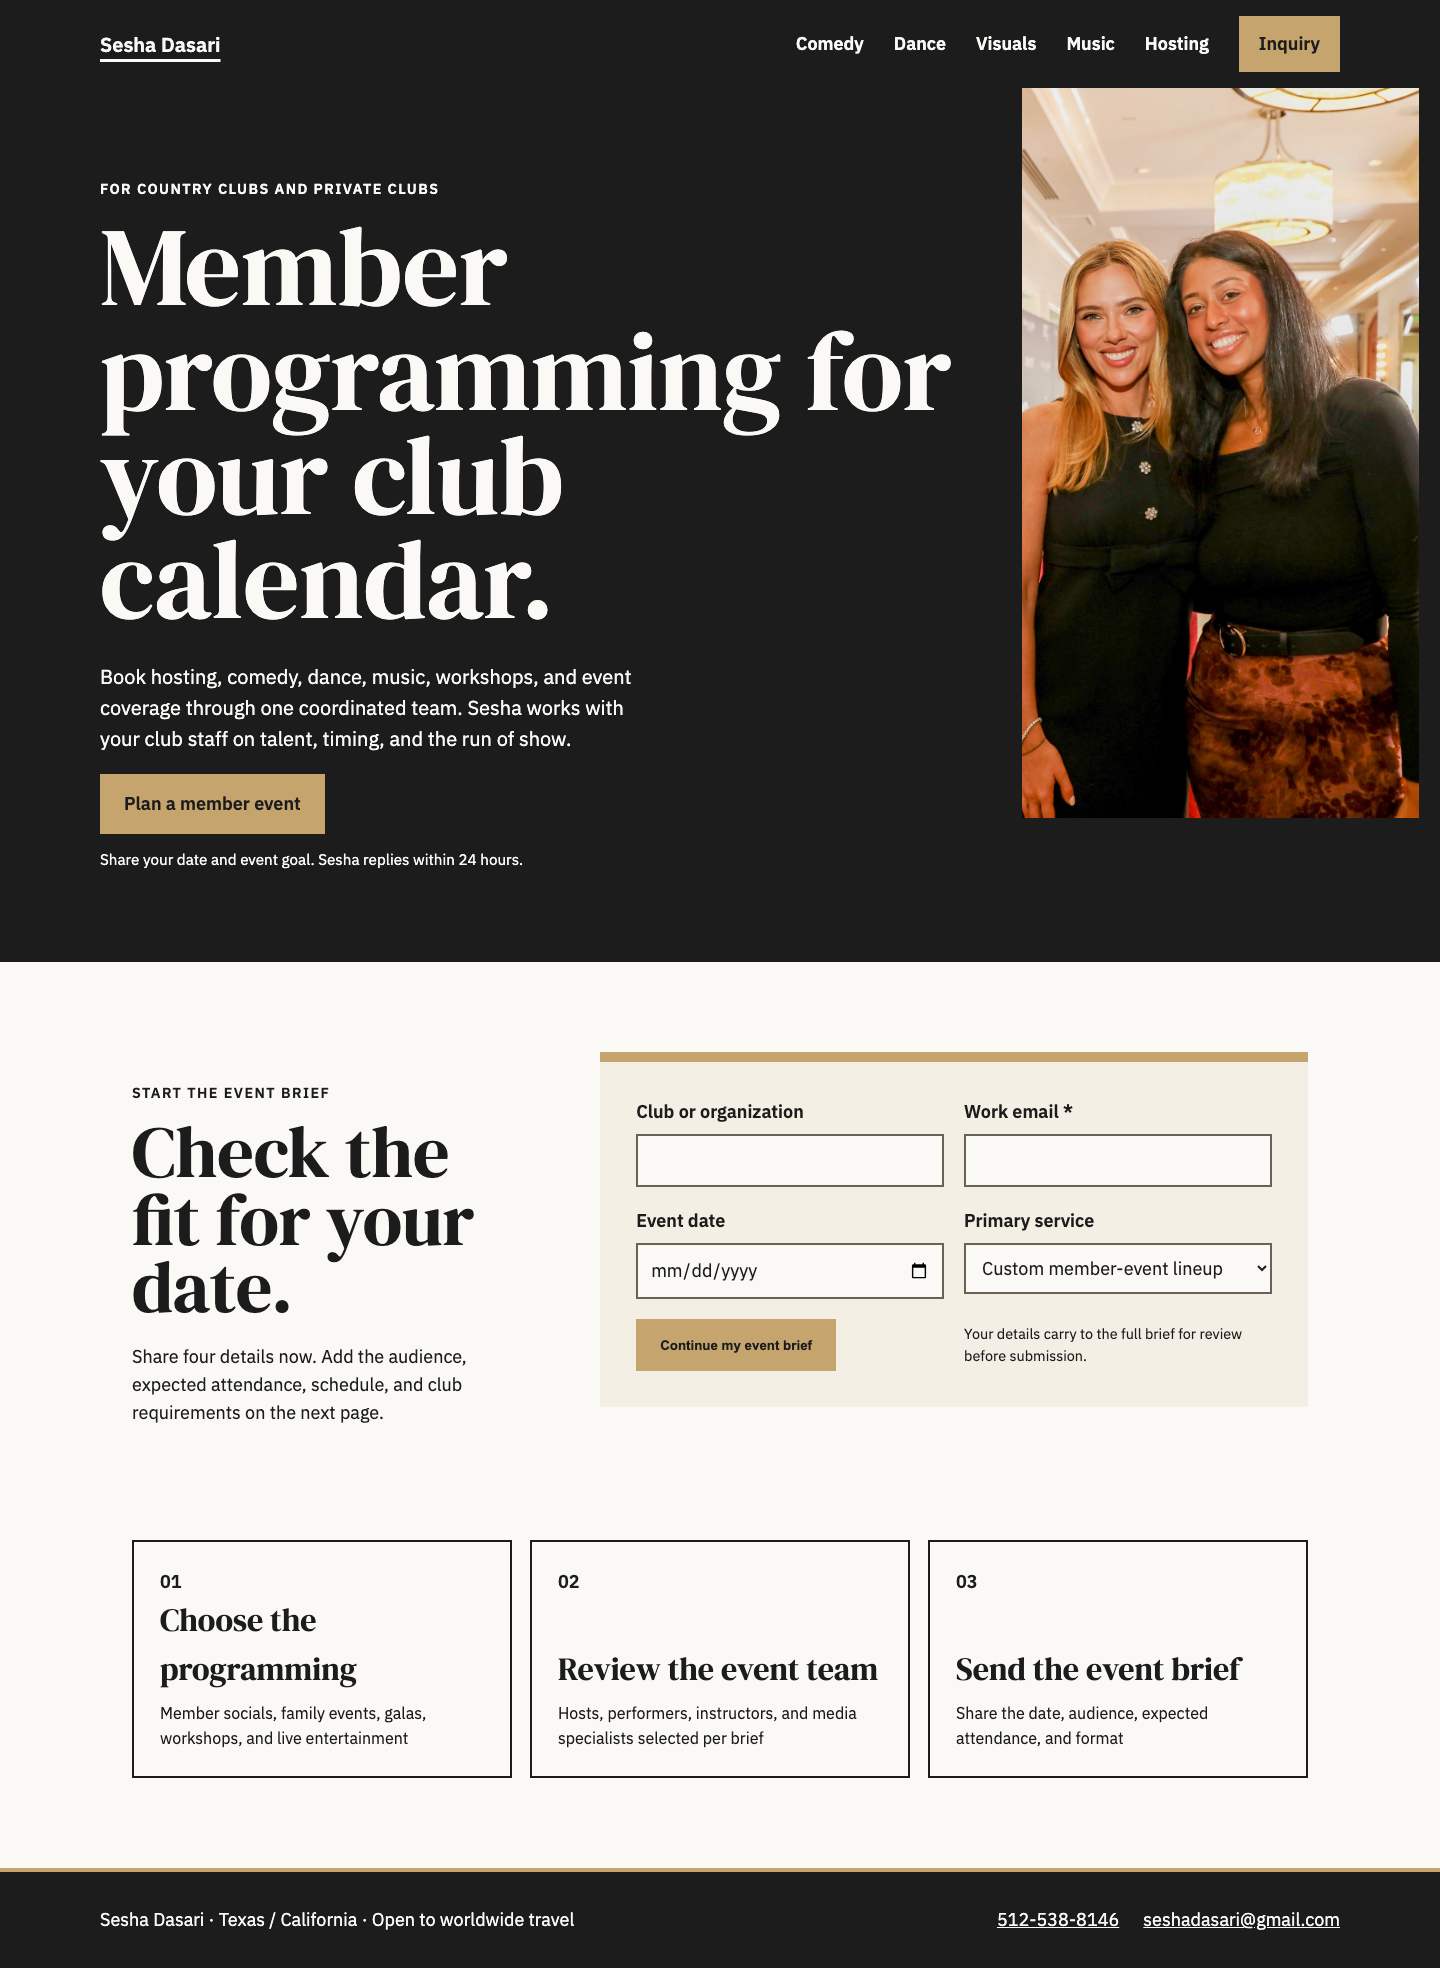
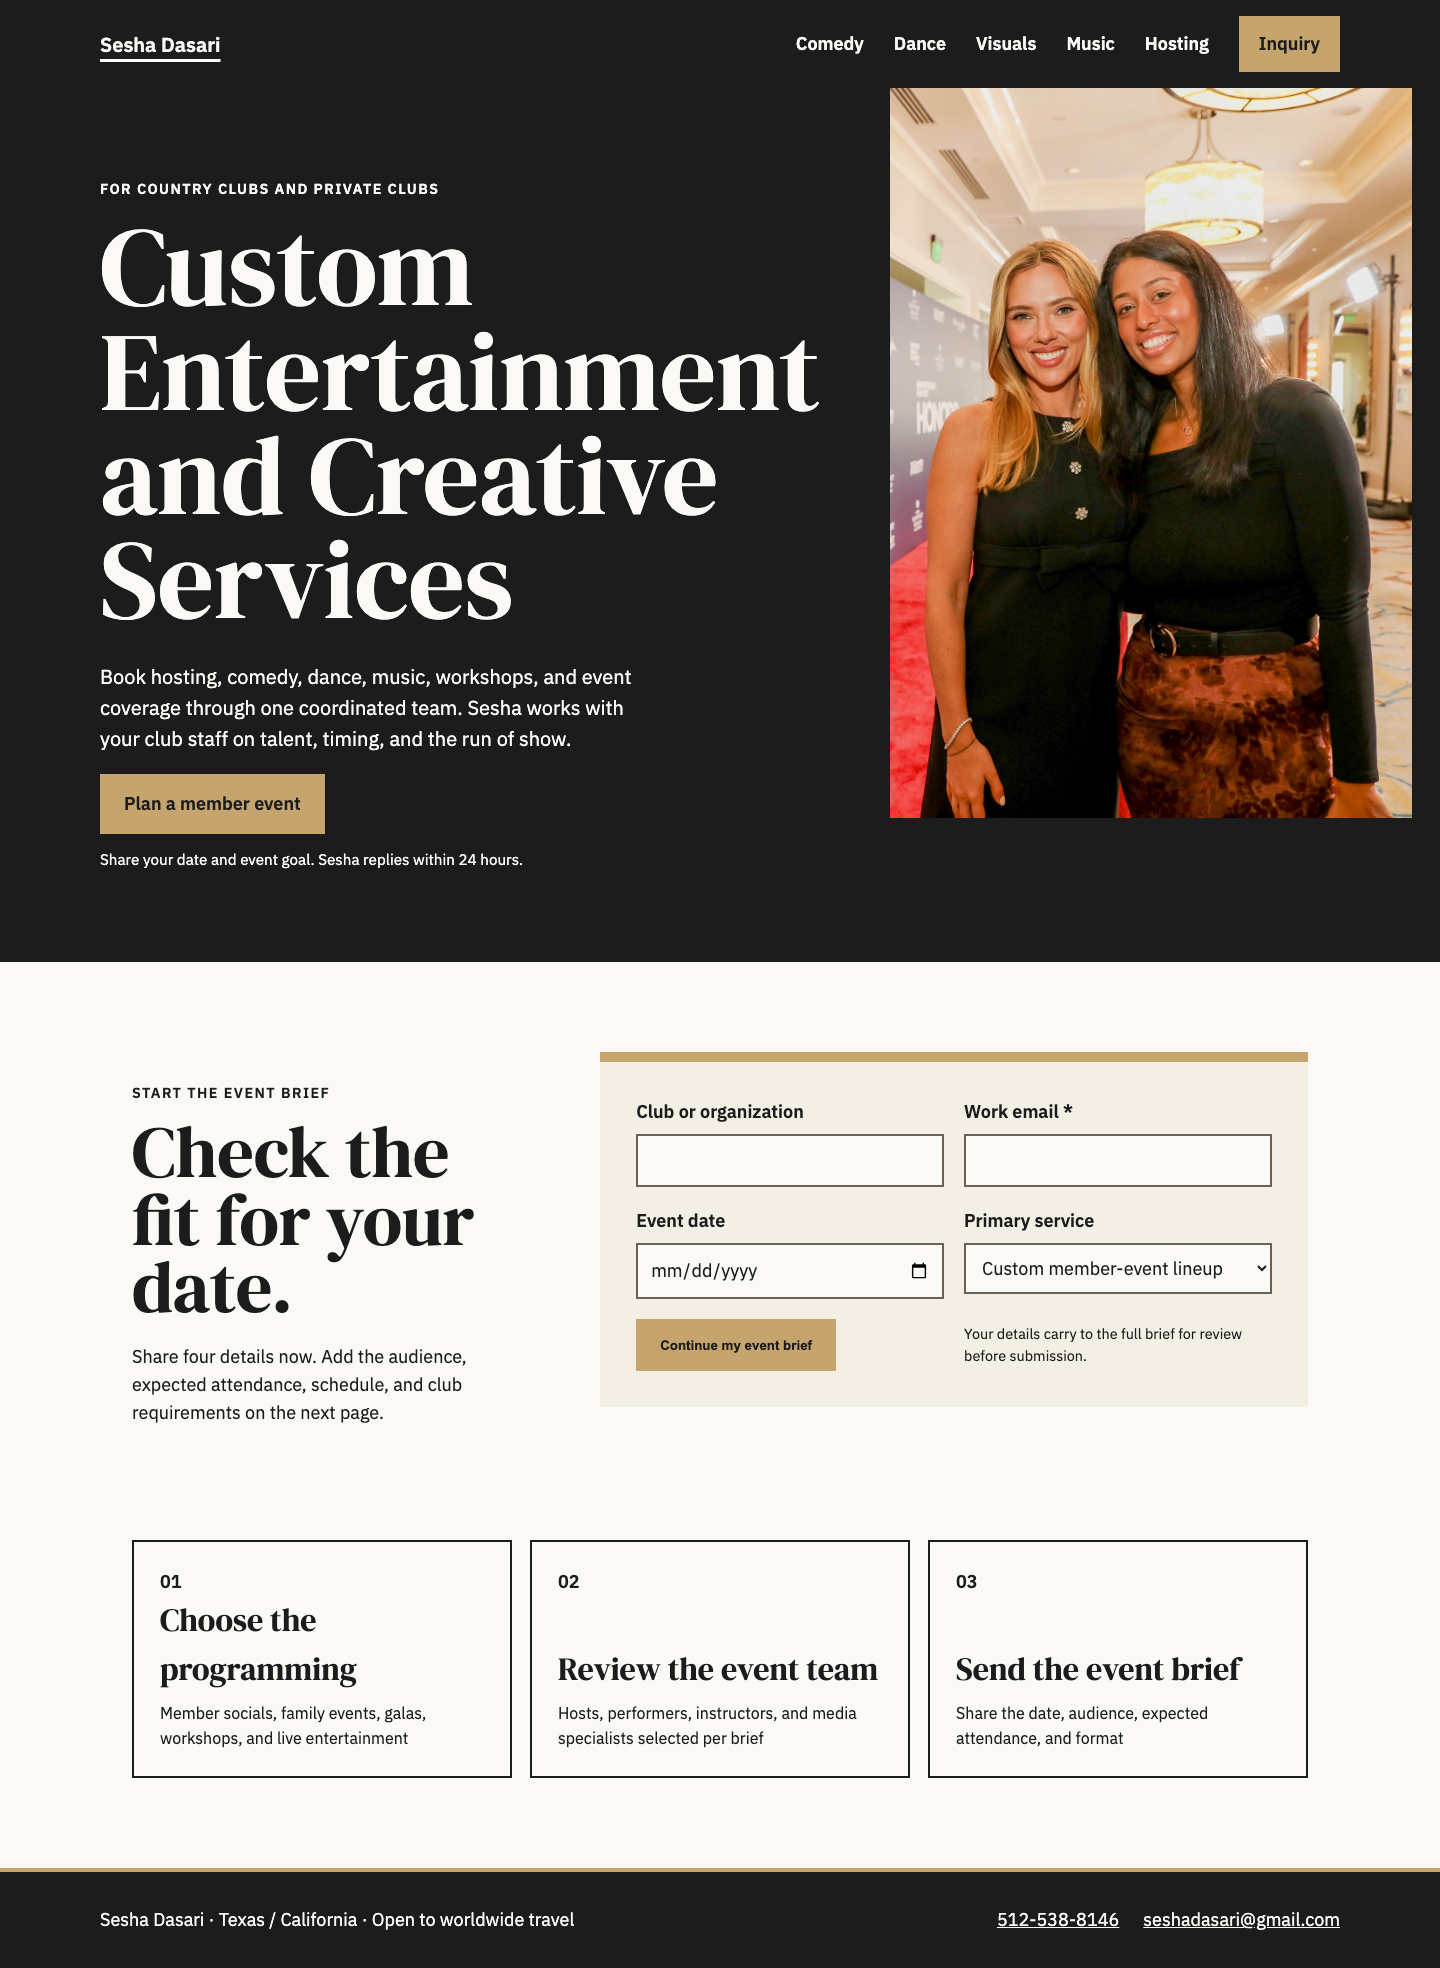
feat: use custom entertainment headline
Replace the homepage hero headline with the requested Custom Entertainment and Creative Services positioning while preserving the country-club audience callout, coordinated-team subhead, and starter-form CTA.

Changed region(s): [[0.0625, 0.031, 1.0, 0.4339]]

diff --git a/index.html b/index.html
@@ -8,7 +8,7 @@
   <a class="skip-link" href="#main">Skip to content</a>
   <header class="site-top"><a class="site-brand" href="index.html" aria-current="page">Sesha Dasari</a><nav aria-label="Main navigation"><a href="service-comedy.html">Comedy</a><a href="service-dance.html">Dance</a><a href="service-media.html">Visuals</a><a href="service-music.html">Music</a><a href="service-hosting.html">Hosting</a><a class="nav-action" href="c-contact.html#event-brief">Inquiry</a></nav></header>
   <main id="main">
-    <section class="hero-c"><div class="hero-c-copy"><p class="eyebrow">For country clubs and private clubs</p><h1><span>Member</span><span>programming for</span><span>your club</span><span>calendar.</span></h1><p class="lead">Book hosting, comedy, dance, music, workshops, and event coverage through one coordinated team. Sesha works with your club staff on talent, timing, and the run of show.</p><a class="primary-button" href="#home-event-brief">Plan a member event</a><p class="response-note">Share your date and event goal. Sesha replies within 24 hours.</p></div><img src="assets/sesha-scarlett-johansson.jpg" alt="Sesha Dasari standing beside Scarlett Johansson" width="1542" height="1676"></section>
+    <section class="hero-c"><div class="hero-c-copy"><p class="eyebrow">For country clubs and private clubs</p><h1><span>Custom</span><span>Entertainment</span><span>and Creative</span><span>Services</span></h1><p class="lead">Book hosting, comedy, dance, music, workshops, and event coverage through one coordinated team. Sesha works with your club staff on talent, timing, and the run of show.</p><a class="primary-button" href="#home-event-brief">Plan a member event</a><p class="response-note">Share your date and event goal. Sesha replies within 24 hours.</p></div><img src="assets/sesha-scarlett-johansson.jpg" alt="Sesha Dasari standing beside Scarlett Johansson" width="1542" height="1676"></section>
     <section id="home-event-brief" class="home-quote" aria-labelledby="home-quote-title"><div><p class="eyebrow">Start the event brief</p><h2 id="home-quote-title">Check the fit for your date.</h2><p>Share four details now. Add the audience, expected attendance, schedule, and club requirements on the next page.</p></div><form class="home-quote-form" action="c-contact.html#event-brief" method="get"><div class="form-field"><label for="starter-organization">Club or organization</label><input id="starter-organization" name="organization" autocomplete="organization"></div><div class="form-field"><label for="starter-email">Work email <span aria-hidden="true">*</span></label><input id="starter-email" name="email" type="email" autocomplete="email" required></div><div class="form-field"><label for="starter-date">Event date</label><input id="starter-date" name="eventDate" type="date"></div><div class="form-field"><label for="starter-service">Primary service</label><select id="starter-service" name="service"><option value="bundle">Custom member-event lineup</option><option value="hosting">Hosting and MC</option><option value="comedy">Comedy or interactive entertainment</option><option value="dance">Dance performance or workshop</option><option value="media">Photography and video</option><option value="livestream">Livestream production</option><option value="music">DJ, MC, or music performers</option><option value="coaching">Member workshop or coaching</option></select></div><button class="primary-button" type="submit">Continue my event brief</button><p class="form-handoff-note">Your details carry to the full brief for review before submission.</p></form></section>
     <nav class="page-paths" aria-label="Explore the site"><a href="c-services.html"><span>01</span><strong>Choose the programming</strong><small>Member socials, family events, galas, workshops, and live entertainment</small></a><a href="c-team.html"><span>02</span><strong>Review the event team</strong><small>Hosts, performers, instructors, and media specialists selected per brief</small></a><a href="c-contact.html#event-brief"><span>03</span><strong>Send the event brief</strong><small>Share the date, audience, expected attendance, and format</small></a></nav>
   </main>

diff --git a/VERSION_HISTORY.md b/VERSION_HISTORY.md
@@ -2,6 +2,16 @@
 
 This repository starts with honest source checkpoints. The labels below do not claim earlier Git history that never existed.
 
+## v0.3.13-custom-entertainment-headline
+
+Homepage headline release.
+
+• Replaces the member-programming headline with “Custom Entertainment and Creative Services.”
+• Keeps the country-club audience callout and coordinated-team subhead.
+• Preserves the homepage starter-form CTA and Sesha/Scarlett hero image.
+
+Tested surfaces: desktop, tablet, and mobile hero wrapping, headline text, homepage form anchor, navigation, image loading, responsive overflow, production packaging, and live deployment.
+
 ## v0.3.12-hosting-youtube-reel
 
 Sesha hosting-reel release.

diff --git a/HANDOFF.md b/HANDOFF.md
@@ -5,7 +5,7 @@ This file is the operating guide for the Sesha Dasari event site.
 ## Current state
 
 • Source of truth: the `main` branch in the private GitHub repository.
-• Current release tag: `v0.3.12-hosting-youtube-reel`.
+• Current release tag: `v0.3.13-custom-entertainment-headline`.
 • Production site: https://sesha-country-club-site.netlify.app/
 • Netlify project: https://app.netlify.com/projects/sesha-country-club-site
 • Netlify Forms: https://app.netlify.com/projects/sesha-country-club-site/forms
